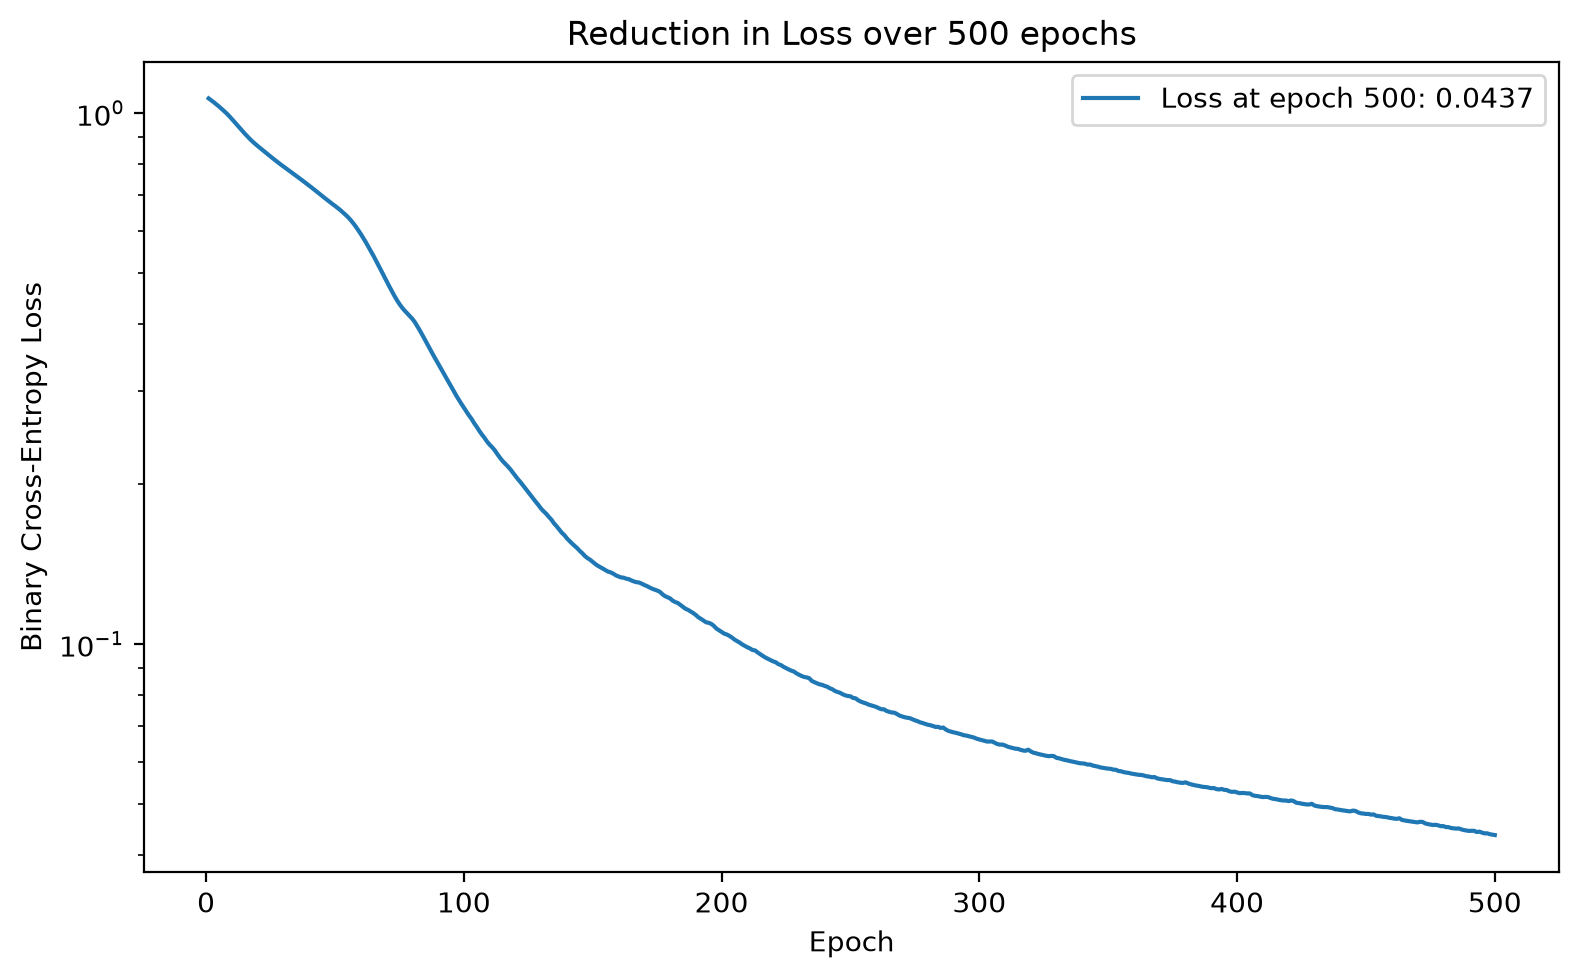
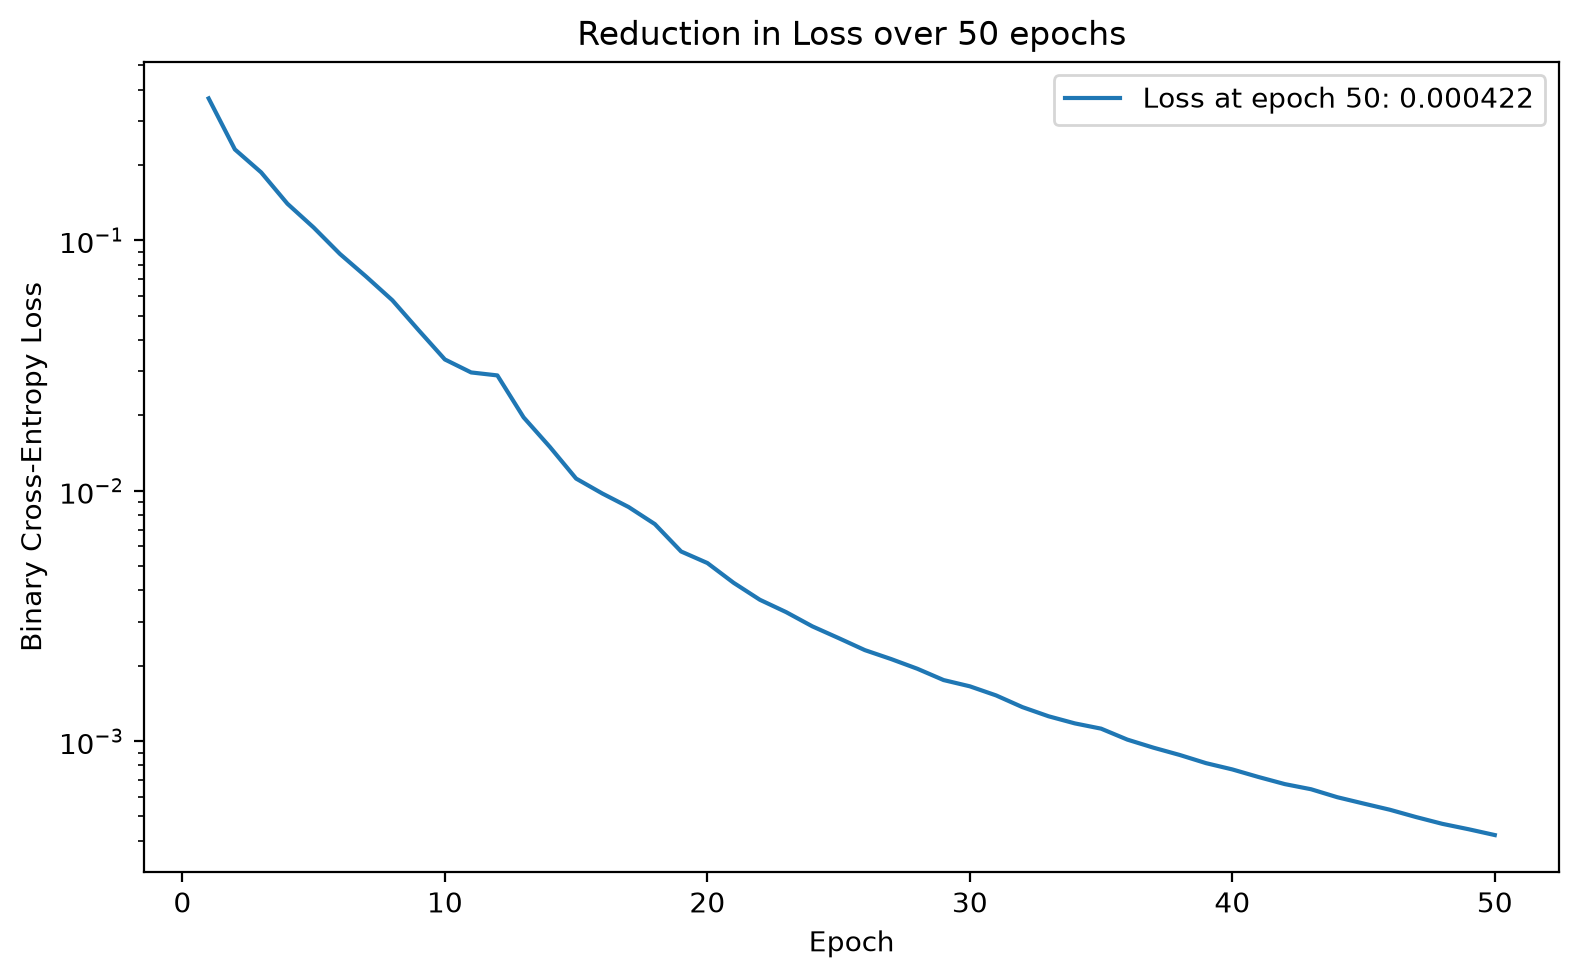
Update to MNIST Dataset

diff --git a/optimiser_comparison.py b/optimiser_comparison.py
@@ -1,9 +1,8 @@
 """
 How does the choice of optimisation algorithm affect neural-network performance?
 
-This script trains otherwise identical networks on the tabular Iris dataset
-from scikit-learn with SGD, Momentum and Adam optimisers and quantifies the
-differences in accuracy.
+This script trains otherwise identical networks on 10% of the MNIST handwritten
+digits dataset's training set with SGD, Momentum and Adam optimisers.
 
 The dataset contains 150 samples of iris flowers with 4 features/inputs:
 sepal length, sepal width, petal length and petal width. Given this
@@ -25,7 +24,7 @@ Note: scikit-learn used for creating the stratified folds and splitting data int
 # importing dependencies
 import numpy as np
 import matplotlib.pyplot as plt
-from sklearn.datasets import load_iris
+from tensorflow.keras.datasets import mnist
 from sklearn.model_selection import train_test_split, StratifiedKFold
 import pandas as pd
 import os
@@ -34,27 +33,47 @@ import src.visualisation_functions as visualisation_functions
 from src.neural_network import NeuralNetwork
 from src.optimisers import SGD, Momentum, Adam
 
-
 # set current working directory as base for file paths
 pwd = os.getcwd()
 visualisations_path = os.path.join(pwd, "visualisations")
 os.makedirs(visualisations_path, exist_ok=True)
 
 
-# import Iris dataset
-iris = load_iris()
-X = iris.data
-y = iris.target
+# import MNIST dataset
+(X_train, y_train), (X_test, y_test) = mnist.load_data()
 
+X_train = X_train[:6000] / 255.0
+X_test = X_test[:1000] / 255.0
+
+y_train = y_train[:6000]
+y_test = y_test[:1000]
+
+# display first 5 MNIST handwritten digit images
+plt.figure(figsize=(15, 3))
+for i in range(5):
+    plt.subplot(1, 5, i + 1)
+    plt.imshow(X_train[i], cmap="gray")
+    plt.title(f"Label: {y_train[i]}")
+    plt.axis("off")
+plt.tight_layout()
+plt.show()
+
+# reshape X matrix -> vector
+X_train = X_train.reshape(X_train.shape[0], -1)
+X_test = X_test.reshape(X_test.shape[0], -1)
+print("--------------------------------")
+print("Training data shape:", X_train.shape)
+print("Testing data shape:", X_test.shape)
+print("--------------------------------")
 
 # parameters
-epochs = 500
-batch_size = 30
+epochs = 50
+batch_size = 100
 seed = 10
 
 # layer architecture and activations
-layer_architecture = [4, 9, 6, 6, 3]
-activations = ["gelu", "gelu", "gelu", "softmax"]
+layer_architecture = [784, 128, 64, 10]
+activations = ["ReLU", "ReLU", "Softmax"]
 
 optimisers = [SGD, Momentum, Adam]
 
@@ -81,21 +100,14 @@ for optimiser_class in optimisers:
 
     fold_accuracy = []
 
-    for fold, (train_indices, test_indices) in enumerate(skf.split(X, y)):
+    for fold, (train_indices, test_indices) in enumerate(skf.split(X_train, y_train)):
 
         # split entire dataset into current training and validation folds
-        X_train = X[train_indices]
-        y_train = y[train_indices]
+        Xf_train = X_train[train_indices]
+        yf_train = y_train[train_indices]
 
-        X_test = X[test_indices]
-        y_test = y[test_indices]
-
-        # standardise using ONLY the current training fold
-        X_train_mean = X_train.mean(axis=0)
-        X_train_std = X_train.std(axis=0)
-
-        X_train = (X_train - X_train_mean) / X_train_std
-        X_test = (X_test - X_train_mean) / X_train_std
+        Xf_test = X_train[test_indices]
+        yf_test = y_train[test_indices]
 
         # initialise model
         model = NeuralNetwork(
@@ -108,8 +120,8 @@ for optimiser_class in optimisers:
 
         # train model
         model.fit(
-            X_train,
-            y_train,
+            Xf_train,
+            yf_train,
             epochs,
             batch_size,
             optimiser_class()
@@ -117,8 +129,8 @@ for optimiser_class in optimisers:
 
         # evaluate model on validation fold
         model_accuracy = model.test(
-            X_test,
-            y_test
+            Xf_test,
+            yf_test
         )
 
         fold_accuracy.append(model_accuracy)
@@ -139,16 +151,6 @@ for optimiser_class in optimisers:
 
 print("\n5-Fold Cross-Validation Results")
 print("--------------------------------")
-
-for optimiser, row in optimiser_performance_df.iterrows():
-
-    print(
-        f"{optimiser:<10} "
-        f"Mean Accuracy: {row['Mean CV Accuracy']:.3f} "
-        f"+/- {row['Standard Deviation']:.3f}"
-    )
-
-print("\n")
 print(optimiser_performance_df)
 
 
@@ -156,28 +158,7 @@ print(optimiser_performance_df)
 # TRAIN / TEST EXPERIMENT
 #################################
 
-# shuffle and split the entire dataset into training and test sets
-X_train, X_test, y_train, y_test = train_test_split(
-    X,
-    y,
-    test_size=0.2,
-    random_state=seed,
-    stratify=y
-)
-
-# standardise using ONLY the training data
-X_train_mean = X_train.mean(axis=0)
-X_train_std = X_train.std(axis=0)
-
-X_train = (X_train - X_train_mean) / X_train_std
-X_test = (X_test - X_train_mean) / X_train_std
-
-
-#################################
-# TRAINING AND TEST RESULTS
-#################################
-
-print("Train/Test Results")
+print("\nTrain/Test Results")
 print("------------------")
 
 for optimiser_class in optimisers:

diff --git a/poc_classification.py b/poc_classification.py
@@ -22,11 +22,7 @@ os.makedirs(visualisations_path, exist_ok=True)
 # import sample data
 X = sample_data.X
 y = sample_data.y
-
-#################################
-# BUILDING AND TRAINING THE MODEL
-#################################
-
+print("-"*10, "BUILDING AND TRAINING THE MODEL", "-"*10)
 # parameters
 epochs = 2000
 batch_size = 16
@@ -54,11 +50,9 @@ loss_data, checkpoints = model.fit(
     optimiser=Adam(),
     checkpoint_interval=50
 )
+print("-"*10, "BUILDING AND TRAINING COMPLETE", "-"*10)
 
-#################################
-# VISUALISATION
-#################################
-
+print("-"*10, "PERFORMING VISUALISATIONS", "-"*10)
 # to store plot images for each interval
 frames = []
 
@@ -102,3 +96,5 @@ fig.savefig(
 )
 
 plt.close(fig)
+
+print("-"*10, "VISUALISATIONS COMPLETE", "-"*10)
